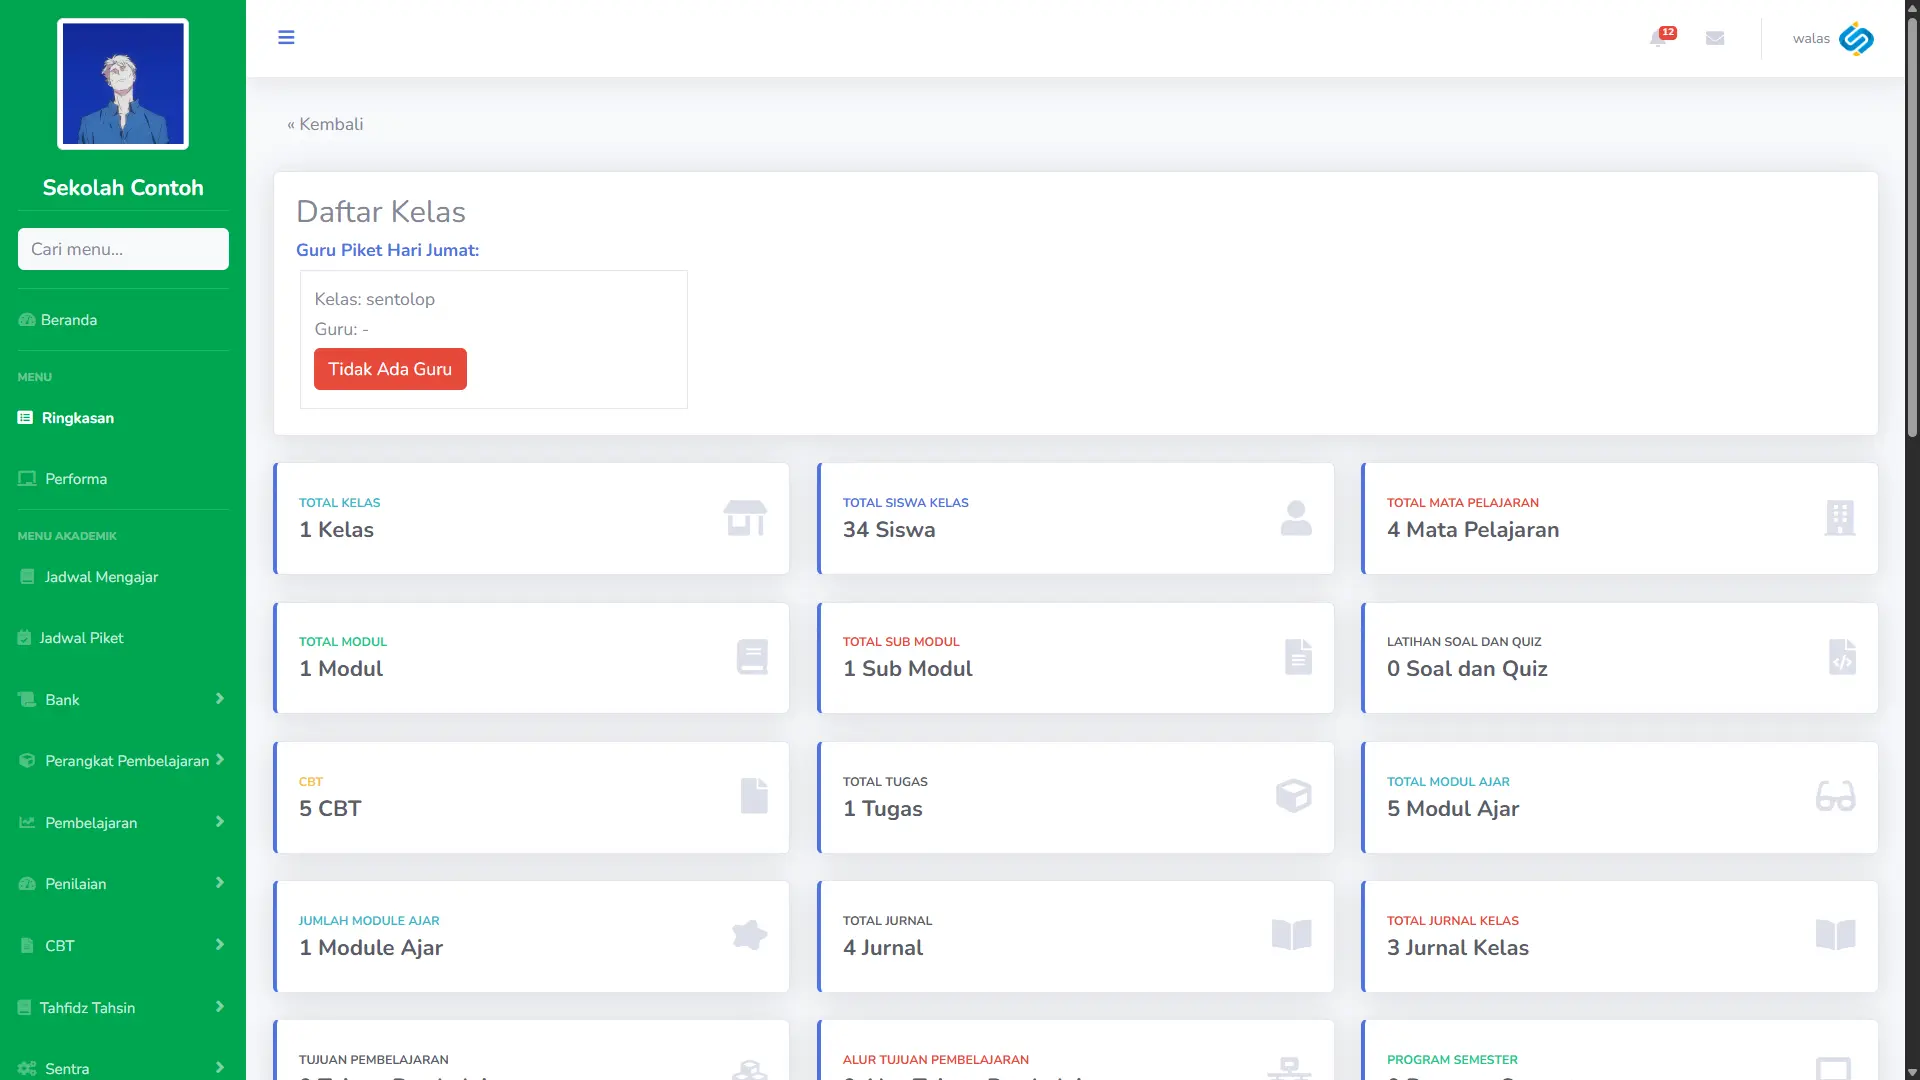
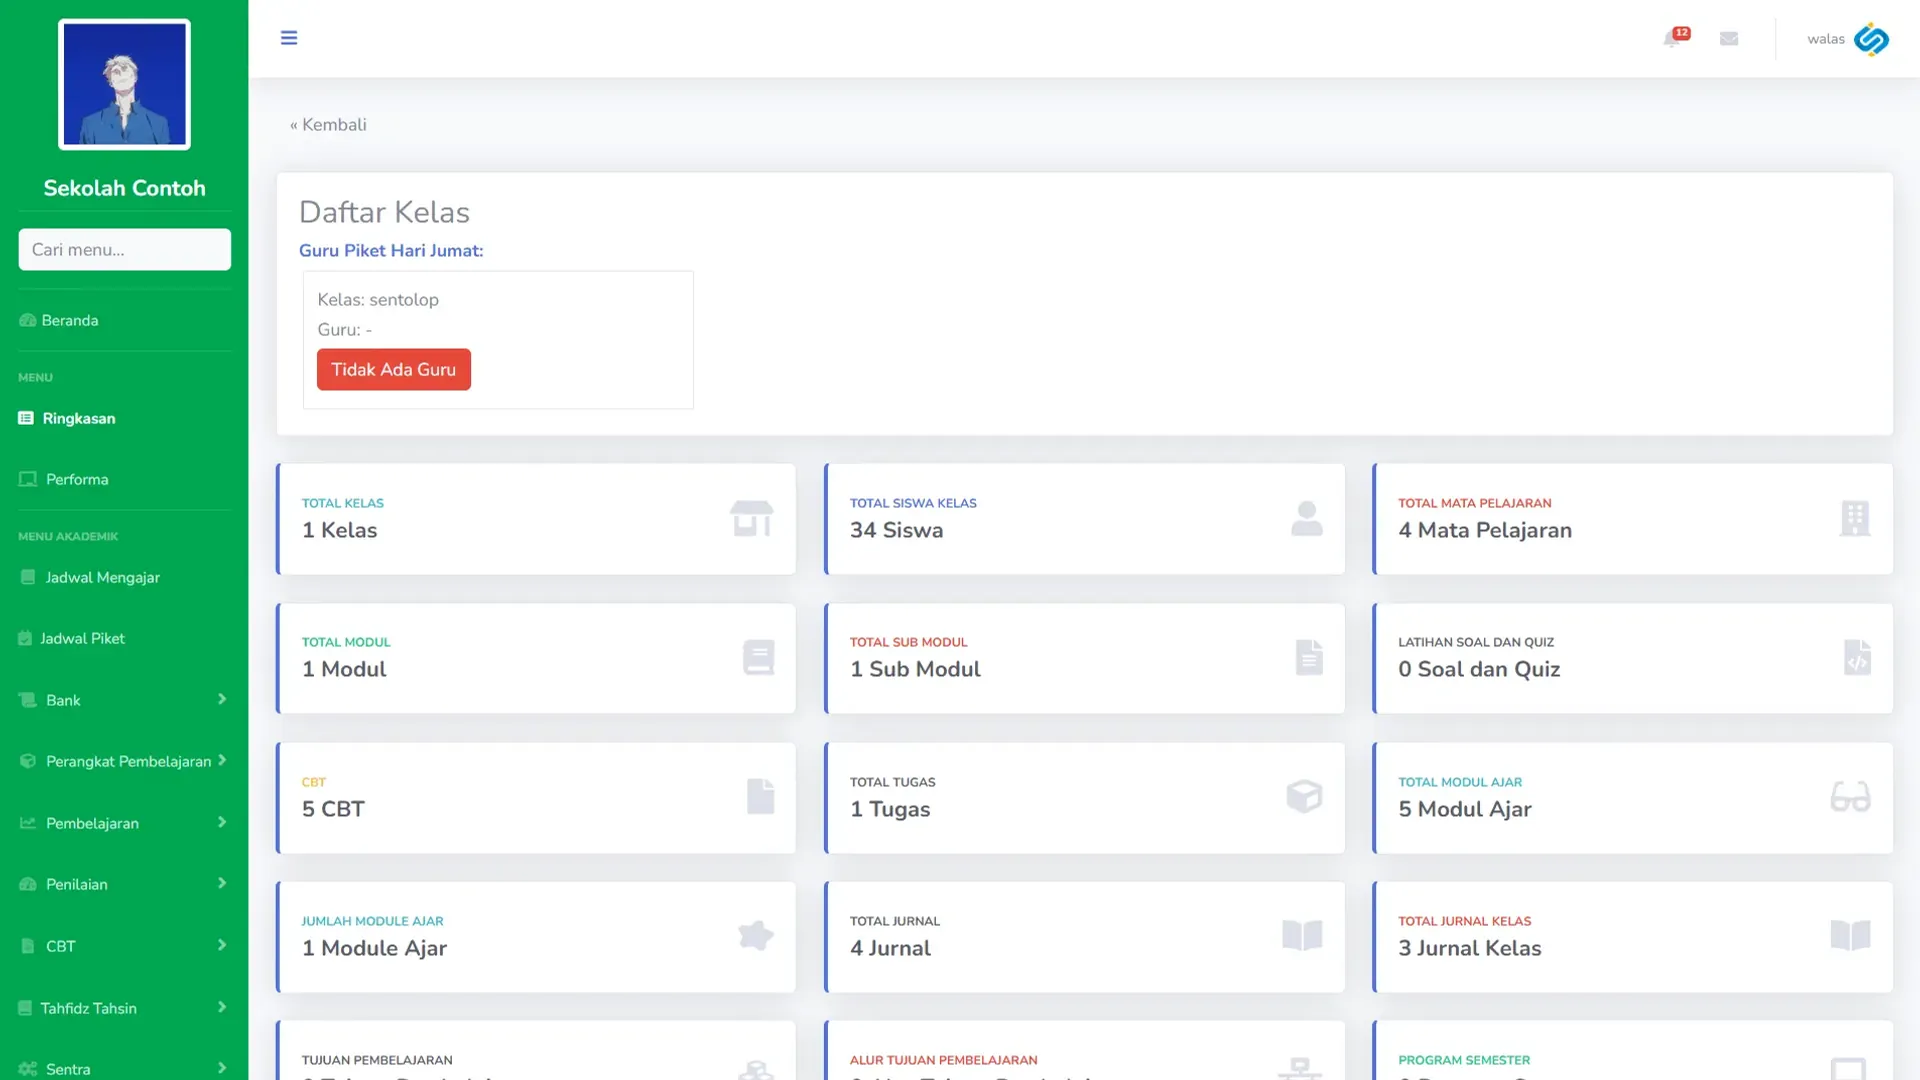
feat(projects): add desktop monitor frame for Sidigs project
- Add monitor frame type with CSS styles for 1920/1080 display with bezel, neck, and foot
- Create data/frames.ts to centralize frame specifications and screen dimensions
- Update ProjectMockup component to support monitor frame alongside laptop and phone
- Add monitor frame to image manifest with updated Sidigs screenshot dimensions
- Update projects.ts to assign monitor frame to Sidigs project
- Refactor SIZES object to use FrameKind type for better type safety
- Update asset optimization scripts to handle monitor frame cropping
- Update design documentation to reflect new monitor frame for Sidigs
- Update master design system documentation with frame specifications

diff --git a/components/ui/ProjectMockup.tsx b/components/ui/ProjectMockup.tsx
@@ -1,4 +1,5 @@
 import Image from "next/image";
+import type { FrameKind } from "@/data/frames";
 import type { ProjectItem } from "@/lib/images";
 
 type Props = ProjectItem & {
@@ -7,17 +8,19 @@ type Props = ProjectItem & {
 };
 
 // Display widths of the screen, used for the responsive srcset.
-const SIZES = {
+const SIZES: Record<FrameKind, string> = {
   laptop: "(min-width: 1024px) 660px, (min-width: 768px) 55vw, 90vw",
+  monitor: "(min-width: 1024px) 640px, (min-width: 768px) 55vw, 90vw",
   phone: "(min-width: 768px) 240px, 45vw",
-} as const;
+};
 
 /**
  * One screenshot in a CSS-only device frame. No images, no brand marks, no second WebGL context.
- * - laptop: every website gets the same laptop; the screen is exactly 1440 / 1024.
+ * - laptop: the same laptop for those websites; the screen is exactly 1440 / 1024.
+ * - monitor: a desktop monitor on a stand; the screen is exactly 1920 / 1080.
  * - phone: an Android-style phone (punch-hole camera, side buttons); the screen is 412 / 915.
- * Both frames take their height from the same --pj-h (globals.css), so the stage does not jump.
- * The screenshot is pre-cropped to the screen ratio by `npm run assets`; it is never edited.
+ * All frames take their height from the same --pj-h (globals.css), so the stage does not jump.
+ * Screen sizes come from data/frames.ts, and `npm run assets` fits each screenshot to them.
  */
 export function ProjectMockup({ project, image, eager = false }: Props) {
   const kind = project.frame;
@@ -45,7 +48,7 @@ export function ProjectMockup({ project, image, eager = false }: Props) {
     <div className="pj-device-wrap">
       <div className="pj-persp">
         <div className="pj-tilt" data-pj-tilt>
-          {kind === "laptop" ? (
+          {kind === "laptop" && (
             <div className="pj-device pj-laptop">
               <div className="pj-lid">
                 <span className="pj-cam" aria-hidden />
@@ -53,7 +56,18 @@ export function ProjectMockup({ project, image, eager = false }: Props) {
               </div>
               <div className="pj-base" aria-hidden />
             </div>
-          ) : (
+          )}
+          {kind === "monitor" && (
+            <div className="pj-device pj-monitor">
+              <div className="pj-mon-panel">
+                <div className="pj-mon-screen">{picture}</div>
+                <span className="pj-mon-led" aria-hidden />
+              </div>
+              <div className="pj-mon-neck" aria-hidden />
+              <div className="pj-mon-foot" aria-hidden />
+            </div>
+          )}
+          {kind === "phone" && (
             <div className="pj-device pj-phone">
               <span className="pj-btn pj-btn-power" aria-hidden />
               <span className="pj-btn pj-btn-volume" aria-hidden />

diff --git a/data/projects.ts b/data/projects.ts
@@ -5,8 +5,9 @@
 //  1. Put the screenshot at public/projects/<slug>/cover.webp (or cover.png / cover.jpg). That file is
 //     the source of truth and is never overwritten. Run `npm run assets`: it writes frame.webp next to it.
 //  2. Add an entry below, newest first.
-//  frame: "laptop" (websites) or "phone" (mobile apps). Every frame of a kind is identical.
-//         The pipeline crops the screenshot to the frame: laptop 1440x1024, phone 824x1830.
+//  frame: "laptop" or "monitor" (websites) or "phone" (mobile apps). Every frame of a kind is identical.
+//         The pipeline fits the screenshot to the frame size in data/frames.ts:
+//         laptop 1440x1024, phone 824x1830, monitor 1920x1080.
 //          A screenshot that already has the frame's shape (within 1%) is only resized, never cropped.
 //  focusY: where the crop window sits when the screenshot is taller than the frame, 0 = top, 100 = bottom.
 //  focusX: optional, where it sits when the sides have to be cut, 0 = left, 100 = right (default 50).
@@ -16,6 +17,8 @@
 //  link: { type: "live", url } shows a button, { type: "repo", url } shows a button,
 //        { type: "private" } shows a "Private project" label with no button.
 
+import type { FrameKind } from "./frames.ts";
+
 export type ProjectLink =
   | { type: "live"; url: string }
   | { type: "repo"; url: string }
@@ -23,7 +26,7 @@ export type ProjectLink =
 
 export type Project = {
   slug: string;
-  frame: "laptop" | "phone";
+  frame: FrameKind;
   focusY: number;
   focusX?: number;
   trim?: { top?: number; bottom?: number; left?: number; right?: number };
@@ -62,10 +65,9 @@ export const projects: Project[] = [
   },
   {
     slug: "sidigs-app",
-    frame: "laptop",
+    frame: "monitor",
     focusY: 0,
-    focusX: 0, // keep the sidebar and the start of the table when the sides are cut
-    trim: { top: 88, bottom: 49, right: 16 }, // Chrome tabs + address bar, Windows taskbar + clock, scrollbar
+    trim: { right: 15 }, // page scrollbar (columns 1905-1919 of the 1920x1080 capture)
     title: "Sidigs App",
     role: "Part-time Full-stack Developer",
     year: "2025 - 2026",

diff --git a/app/globals.css b/app/globals.css
@@ -296,6 +296,52 @@ html {
   transform: translateX(-50%);
 }
 
+/* Desktop monitor: screen exactly 1920 / 1080, thin near-black bezel with a thicker bottom chin,
+   a short neck and a flat foot. Total height = --pj-h (same box as the laptop); the width is
+   capped by the column so it never overflows. The one accent is a tiny power LED in the chin. */
+.pj-monitor {
+  --mon-neck: calc(var(--pj-h) * 0.085);
+  --mon-foot: 7px;
+  --mon-w: min(calc((var(--pj-h) - var(--mon-neck) - var(--mon-foot) - 26px) * 1920 / 1080 + 18px), 100cqw);
+  width: var(--mon-w);
+}
+.pj-mon-panel {
+  position: relative;
+  padding: 8px 8px 16px;
+  border: 1px solid var(--color-line);
+  border-radius: 6px;
+  background: #0c0c0f;
+}
+.pj-mon-screen {
+  aspect-ratio: 1920 / 1080;
+  overflow: hidden;
+  background: #000;
+}
+.pj-mon-led {
+  position: absolute;
+  right: 14px;
+  bottom: 6px;
+  width: 4px;
+  height: 4px;
+  border-radius: 9999px;
+  background: var(--color-accent);
+}
+.pj-mon-neck {
+  width: 11%;
+  height: var(--mon-neck);
+  margin-inline: auto;
+  border-inline: 1px solid var(--color-line);
+  background: #1b1b21;
+}
+.pj-mon-foot {
+  width: 34%;
+  height: var(--mon-foot);
+  margin-inline: auto;
+  border: 1px solid var(--color-line);
+  border-radius: 4px 4px 2px 2px;
+  background: #1b1b21;
+}
+
 /* Android phone: screen 412 / 915, uniform bezel, punch-hole camera, power and volume on the right.
    No notch, no island, no home bar. */
 .pj-phone {

diff --git a/data/frames.ts b/data/frames.ts
@@ -1,0 +1,11 @@
+// Single source of truth for device frames. Output pixel size per frame kind.
+// Read by scripts/optimize-assets.mjs, scripts/check-assets.mjs and the mockup components.
+// The screen of every frame of a kind has exactly this aspect ratio.
+
+export const FRAME_SIZE = {
+  laptop: { width: 1440, height: 1024 },
+  phone: { width: 824, height: 1830 }, // 2x of a 412 x 915 Android screen
+  monitor: { width: 1920, height: 1080 }, // 16:9 desktop monitor
+} as const;
+
+export type FrameKind = keyof typeof FRAME_SIZE;

diff --git a/design-system/njoel/MASTER.md b/design-system/njoel/MASTER.md
@@ -84,7 +84,7 @@ No box shadows, with one exception: the soft contact shadow under the Projects m
 
 **Dock (below 768px):** fixed bottom, `surface`, 1px `line` top, 6 items, icon 22px plus 11px label (labels use `fg` and `muted` only, never accent text), 44px+ targets, safe-area inset padding. Active item: accent 2px top indicator and `fg` text.
 
-**Projects stage (desktop):** `surface` background, sticky (not pinned) for about 90vh of scroll per project, one project per step. `role="tablist"` index (01-05) with arrow, Home and End keys, panels are `role="tabpanel"` and `inert` unless active. Mockups are CSS 3D frames: one identical laptop for every website (screen 1440 / 1024) and one Android phone for mobile apps (screen 412 / 915, punch-hole camera, side buttons, no notch). Both use the same frame height (`--pj-h`). Pointer tilt about 6 degrees, flat for reduced motion. The only shadow on the site is the soft contact shadow under these mockups. Below 768px an accordion with real buttons (`aria-expanded`, `aria-controls`, 44px rows). Reduced motion: stacked blocks, no sticky.
+**Projects stage (desktop):** `surface` background, sticky (not pinned) for about 90vh of scroll per project, one project per step. `role="tablist"` index (01-05) with arrow, Home and End keys, panels are `role="tabpanel"` and `inert` unless active. Mockups are CSS 3D frames: one identical laptop for websites (screen 1440 / 1024), a desktop monitor for Sidigs (screen 1920 / 1080) and one Android phone for mobile apps (screen 412 / 915, punch-hole camera, side buttons, no notch). Both use the same frame height (`--pj-h`). Pointer tilt about 6 degrees, flat for reduced motion. The only shadow on the site is the soft contact shadow under these mockups. Below 768px an accordion with real buttons (`aria-expanded`, `aria-controls`, 44px rows). Reduced motion: stacked blocks, no sticky.
 
 **Toast:** `surface`, 1px `line`, 4px radius, `role="status"`, `aria-live="polite"`, auto-dismiss at 3 to 4s, does not steal focus.
 

diff --git a/DESIGN.md b/DESIGN.md
@@ -83,7 +83,7 @@ One set only: Phosphor (regular weight). It has the brand marks needed for Linke
 ## Imagery
 
 - Portrait: the real photo, grayscale to color, 0px corners, 1px line border.
-- Project screenshots: one per project, cropped (never edited) to the frame by `npm run assets`. Every website sits in the same CSS laptop (screen 1440 / 1024); the mobile app sits in one CSS Android phone (screen 412 / 915, punch-hole camera, no notch). Both frames share one height so the stage never jumps. No brand marks.
+- Project screenshots: one per project, cropped (never edited) to the frame by `npm run assets`. Websites sit in one shared CSS laptop (screen 1440 / 1024), except Sidigs, which sits in a CSS desktop monitor (screen 1920 / 1080, thin bezel, chin, neck and foot); the mobile app sits in one CSS Android phone (screen 412 / 915, punch-hole camera, no notch). Both frames share one height so the stage never jumps. No brand marks.
 - No stock images, no generated faces, no illustrations, no decorative imagery.
 - Logo and favicon: a plain NJOEL wordmark set in Bricolage Grotesque.
 
